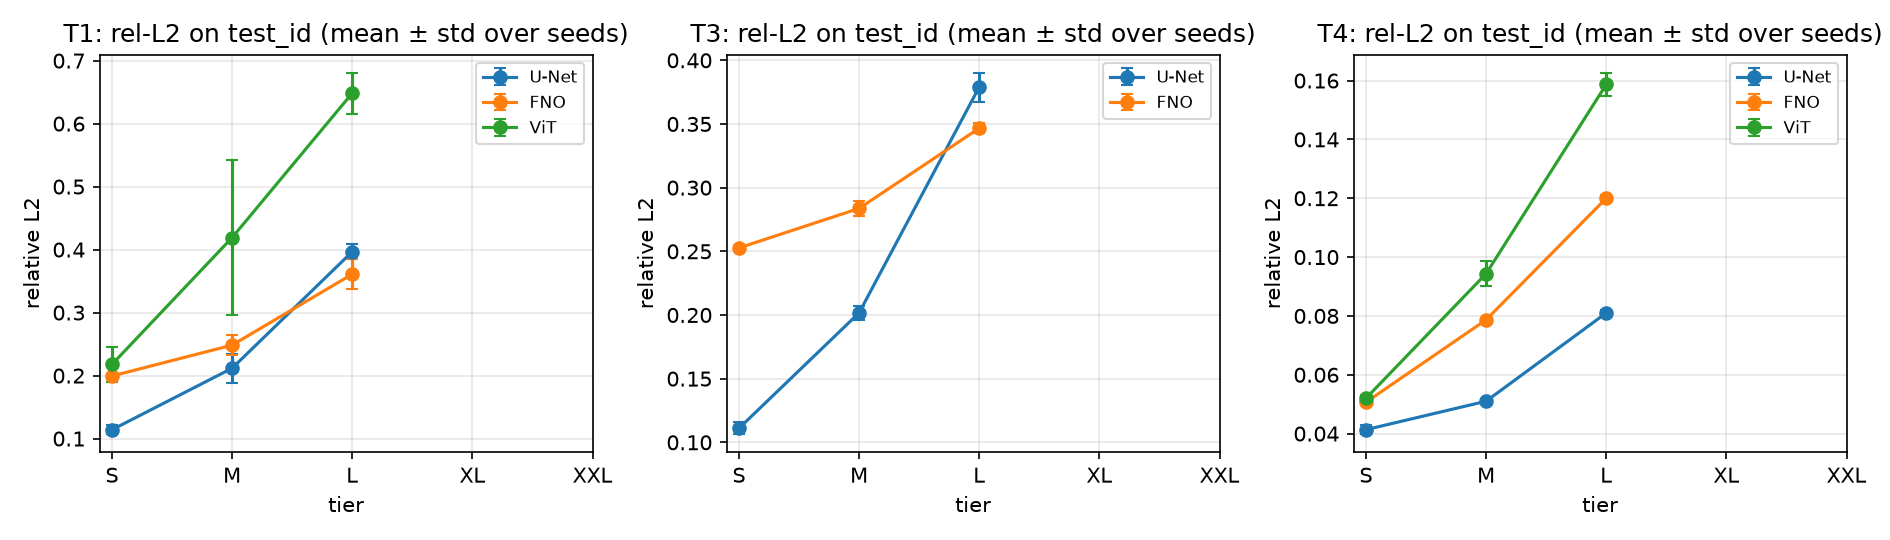
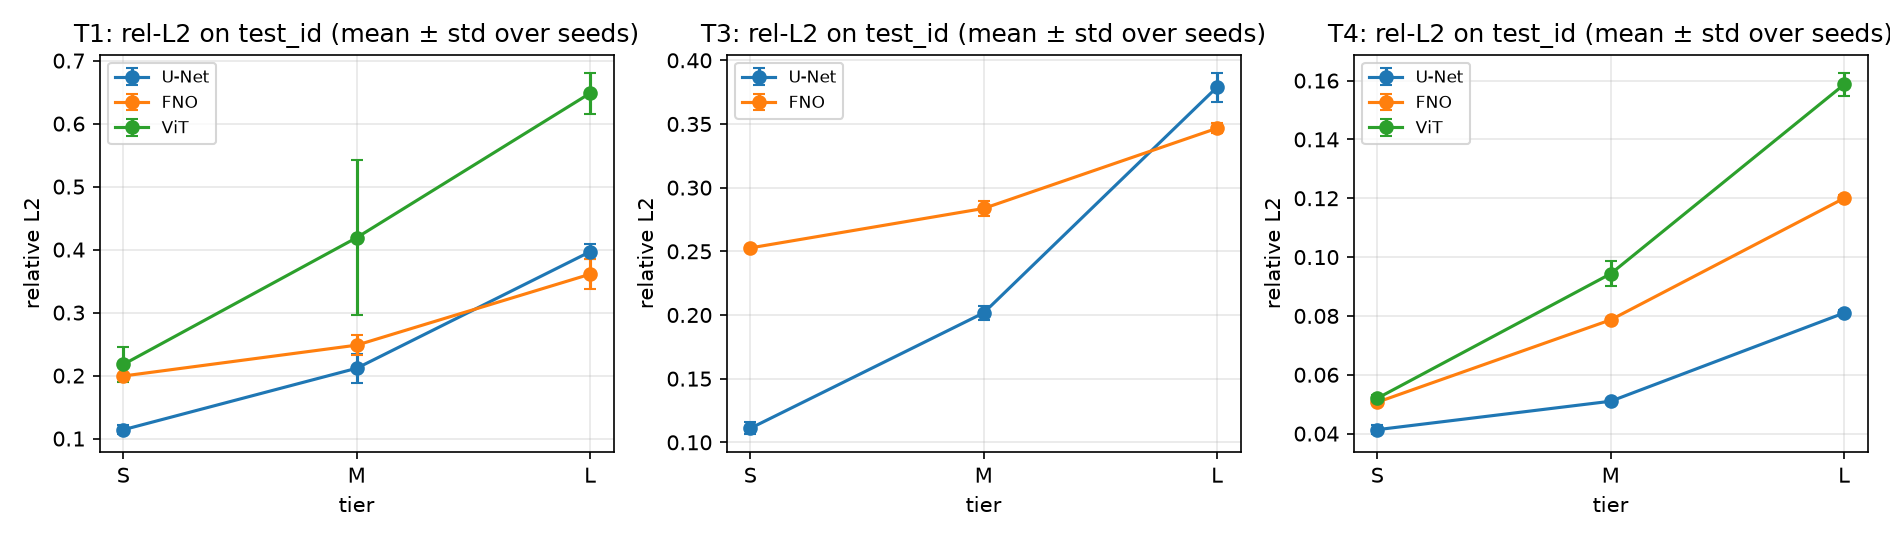
paper figures: tier axis limited to trained tiers; log axis for wide transfer ranges

diff --git a/scripts/paper_figures.py b/scripts/paper_figures.py
@@ -191,8 +191,9 @@ def error_vs_tier(out: pathlib.Path) -> None:
             y = [float(g[g.tier == t][("rel_l2", "mean")].iloc[0]) for t in tiers]
             e = [float(np.nan_to_num(g[g.tier == t][("rel_l2", "std")].iloc[0])) for t in tiers]
             ax.errorbar(x, y, yerr=e, marker="o", capsize=3, label=MODEL_LABEL[base])
-        ax.set_xticks(range(len(TIER_ORDER)))
-        ax.set_xticklabels(TIER_ORDER)
+        present = [t for t in TIER_ORDER if t in set(sub.tier)]
+        ax.set_xticks([TIER_ORDER.index(t) for t in present])
+        ax.set_xticklabels(present)
         ax.set_title(f"{task}: rel-L2 on test_id (mean ± std over seeds)")
         ax.set_xlabel("tier")
         ax.set_ylabel("relative L2")
@@ -326,6 +327,9 @@ def scale_transfer(out: pathlib.Path) -> None:
                     )
         ax.set_xticks([0, 1, 2])
         ax.set_xticklabels(["L (trained)", "XL", "XXL"])
+        vals = sub[("rel_l2", "mean")].astype(float)
+        if len(vals) and np.nanmax(vals) / max(np.nanmin(vals), 1e-9) > 8:
+            ax.set_yscale("log")
         ax.set_ylabel("relative L2 (test_id)")
         ax.set_title(f"{task}: trained at L, evaluated across scales")
         ax.grid(alpha=0.3, axis="y")

diff --git a/docs/tables/baselines_full.md b/docs/tables/baselines_full.md
@@ -345,14 +345,14 @@
 | T4 | L | ood_region | vit_T4_L_s2 | 1945 | 0.080 | 0.121 | 0.607 | 0.720 | 0.975 | 0.805 | 0.951 | 44357.622 | 3.025 | 30 | 6.187 |
 | T4 | L | ood_region | vit_T4_L_s3 | 1945 | 0.082 | 0.128 | 0.592 | 0.712 | 0.973 | 0.795 | 0.951 | 64877.236 | 3.025 | 30 | 4.614 |
 | T4 | XL | test_id | fno_T4_L_s1 → XL | 2335 | 0.307 | 0.533 | 0.670 | 0.333 | 0.956 | 0.842 | 0.944 | 103553.736 | 33.563 | 30 | 2.790 |
-| T4 | XL | test_id | fno_T4_L_s2 → XL | 3118 | 0.306 | 0.534 | 0.663 | 0.331 | 0.954 | 0.838 | 0.943 | 104562.151 | 33.563 | 30 | 1.856 |
-| T4 | XL | test_id | fno_T4_L_s3 → XL | 3118 | 0.306 | 0.533 | 0.661 | 0.336 | 0.954 | 0.836 | 0.943 | 104405.711 | 33.563 | 30 | 1.756 |
+| T4 | XL | test_id | fno_T4_L_s2 → XL | 2335 | 0.305 | 0.532 | 0.669 | 0.330 | 0.957 | 0.842 | 0.944 | 105020.122 | 33.563 | 30 | 1.856 |
+| T4 | XL | test_id | fno_T4_L_s3 → XL | 2335 | 0.305 | 0.532 | 0.666 | 0.334 | 0.956 | 0.840 | 0.944 | 104909.902 | 33.563 | 30 | 1.756 |
 | T4 | XL | test_id | unet_T4_L_s1 → XL | 2335 | 0.467 | 0.513 | 0.597 | 0.670 | 0.946 | 0.801 | 0.914 | 92632.283 | 7.766 | 30 | 1.550 |
 | T4 | XL | test_id | unet_T4_L_s2 → XL | 2335 | 0.464 | 0.515 | 0.594 | 0.655 | 0.946 | 0.798 | 0.914 | 92093.446 | 7.766 | 30 | 1.558 |
-| T4 | XL | test_id | unet_T4_L_s3 → XL | 3118 | 0.471 | 0.518 | 0.598 | 0.671 | 0.943 | 0.798 | 0.911 | 92224.606 | 7.766 | 30 | 1.542 |
+| T4 | XL | test_id | unet_T4_L_s3 → XL | 2335 | 0.466 | 0.518 | 0.598 | 0.668 | 0.946 | 0.801 | 0.915 | 92561.018 | 7.766 | 30 | 1.542 |
 | T4 | XL | test_id | vit_T4_L_s1 → XL | 2335 | 0.327 | 0.538 | 0.570 | 0.690 | 0.935 | 0.777 | 0.950 | 23190.888 | 3.025 | 30 | 4.566 |
-| T4 | XL | test_id | vit_T4_L_s2 → XL | 3118 | 0.325 | 0.540 | 0.576 | 0.707 | 0.934 | 0.779 | 0.953 | 23308.416 | 3.025 | 30 | 6.187 |
-| T4 | XL | test_id | vit_T4_L_s3 → XL | 3118 | 0.326 | 0.541 | 0.561 | 0.697 | 0.932 | 0.771 | 0.951 | 23261.162 | 3.025 | 30 | 4.614 |
+| T4 | XL | test_id | vit_T4_L_s2 → XL | 2335 | 0.325 | 0.538 | 0.582 | 0.704 | 0.938 | 0.785 | 0.953 | 23400.580 | 3.025 | 30 | 6.187 |
+| T4 | XL | test_id | vit_T4_L_s3 → XL | 2335 | 0.326 | 0.538 | 0.567 | 0.695 | 0.936 | 0.777 | 0.951 | 23327.909 | 3.025 | 30 | 4.614 |
 | T4 | XL | test_ood | fno_T4_L_s1 → XL | 253 | 0.301 | 0.523 | 0.579 | 0.236 | 0.962 | 0.801 | 0.939 | 128439.629 | 33.563 | 30 | 2.790 |
 | T4 | XL | test_ood | fno_T4_L_s2 → XL | 253 | 0.304 | 0.524 | 0.577 | 0.230 | 0.962 | 0.799 | 0.939 | 130796.721 | 33.563 | 30 | 1.856 |
 | T4 | XL | test_ood | fno_T4_L_s3 → XL | 253 | 0.305 | 0.527 | 0.577 | 0.233 | 0.961 | 0.798 | 0.939 | 129843.836 | 33.563 | 30 | 1.756 |

diff --git a/paper/tables/scale_transfer.md b/paper/tables/scale_transfer.md
@@ -30,7 +30,7 @@
 | T4 | FNO | zero-shot | L | test_id | 3 | 0.120 ± 0.001 | 0.973 ± 0.000 | 0.713 ± 0.002 | – |
 | T4 | FNO | zero-shot | L | test_ood | 3 | 0.127 ± 0.002 | 0.958 ± 0.000 | 0.592 ± 0.002 | – |
 | T4 | FNO | zero-shot | XL | ood_region | 3 | 0.517 ± 0.000 | 0.986 ± 0.000 | 0.711 ± 0.002 | – |
-| T4 | FNO | zero-shot | XL | test_id | 3 | 0.533 ± 0.000 | 0.955 ± 0.001 | 0.665 ± 0.005 | – |
+| T4 | FNO | zero-shot | XL | test_id | 3 | 0.532 ± 0.000 | 0.956 ± 0.000 | 0.668 ± 0.002 | – |
 | T4 | FNO | zero-shot | XL | test_ood | 3 | 0.525 ± 0.002 | 0.962 ± 0.001 | 0.578 ± 0.001 | – |
 | T4 | FNO | zero-shot | XXL | ood_region | 1 | 0.766 | 0.976 | 0.618 | – |
 | T4 | FNO | zero-shot | XXL | test_id | 1 | 0.765 | 0.940 | 0.627 | – |
@@ -39,7 +39,7 @@
 | T4 | U-Net | zero-shot | L | test_id | 3 | 0.081 ± 0.001 | 0.992 ± 0.000 | 0.812 ± 0.005 | – |
 | T4 | U-Net | zero-shot | L | test_ood | 3 | 0.089 ± 0.001 | 0.983 ± 0.001 | 0.708 ± 0.008 | – |
 | T4 | U-Net | zero-shot | XL | ood_region | 3 | 0.508 ± 0.002 | 0.973 ± 0.001 | 0.587 ± 0.004 | – |
-| T4 | U-Net | zero-shot | XL | test_id | 3 | 0.515 ± 0.003 | 0.945 ± 0.001 | 0.596 ± 0.002 | – |
+| T4 | U-Net | zero-shot | XL | test_id | 3 | 0.515 ± 0.002 | 0.946 ± 0.000 | 0.596 ± 0.002 | – |
 | T4 | U-Net | zero-shot | XL | test_ood | 3 | 0.516 ± 0.005 | 0.939 ± 0.001 | 0.491 ± 0.004 | – |
 | T4 | U-Net | zero-shot | XXL | ood_region | 1 | 0.754 | 0.948 | 0.447 | – |
 | T4 | U-Net | zero-shot | XXL | test_id | 1 | 0.749 | 0.905 | 0.507 | – |
@@ -48,5 +48,5 @@
 | T4 | ViT | zero-shot | L | test_id | 3 | 0.159 ± 0.004 | 0.953 ± 0.002 | 0.605 ± 0.009 | – |
 | T4 | ViT | zero-shot | L | test_ood | 3 | 0.152 ± 0.003 | 0.914 ± 0.005 | 0.449 ± 0.009 | – |
 | T4 | ViT | zero-shot | XL | ood_region | 3 | 0.518 ± 0.001 | 0.976 ± 0.002 | 0.601 ± 0.013 | – |
-| T4 | ViT | zero-shot | XL | test_id | 3 | 0.540 ± 0.001 | 0.934 ± 0.002 | 0.569 ± 0.008 | – |
+| T4 | ViT | zero-shot | XL | test_id | 3 | 0.538 ± 0.000 | 0.937 ± 0.002 | 0.573 ± 0.008 | – |
 | T4 | ViT | zero-shot | XL | test_ood | 3 | 0.523 ± 0.002 | 0.941 ± 0.004 | 0.463 ± 0.013 | – |
